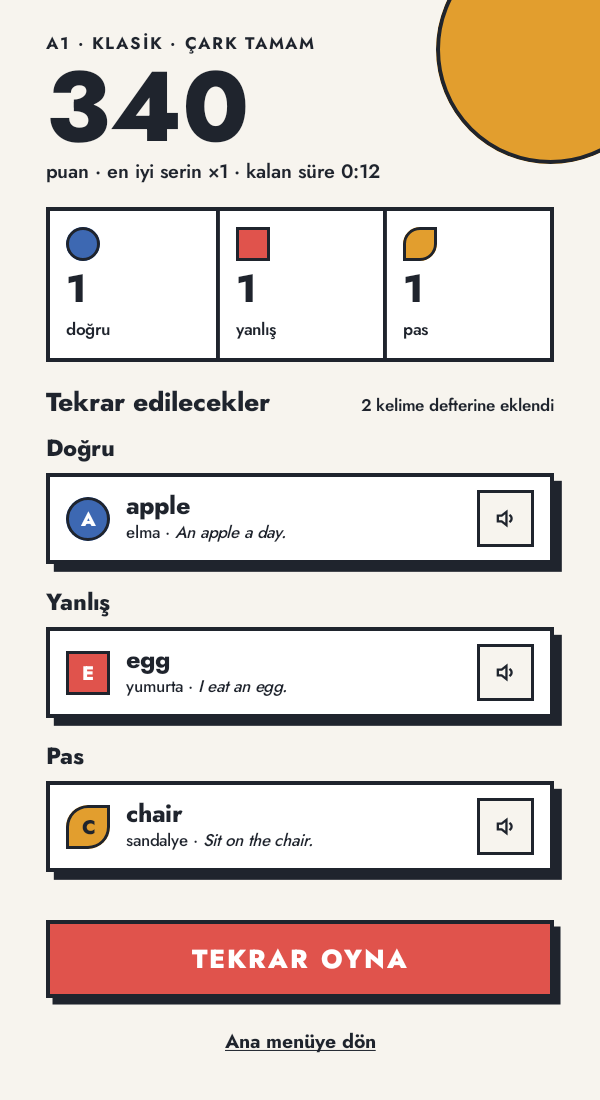
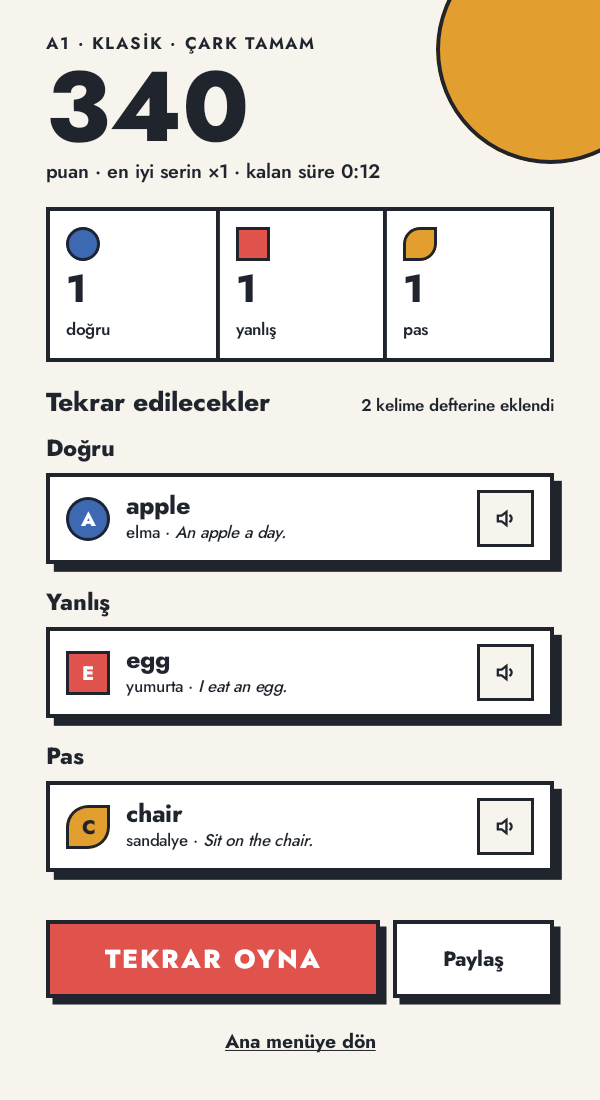
build: derive app version from gradle.properties and show share button

Changed region(s): [[0.18, 0.8345, 0.93, 0.9273]]

diff --git a/feature/game/src/androidHostTest/kotlin/dev/talhabayhan/lexi/feature/game/result/ResultScreenBehaviourTest.kt b/feature/game/src/androidHostTest/kotlin/dev/talhabayhan/lexi/feature/game/result/ResultScreenBehaviourTest.kt
@@ -2,15 +2,17 @@ package dev.talhabayhan.lexi.feature.game.result
 
 import androidx.compose.ui.test.ExperimentalTestApi
 import androidx.compose.ui.test.assertIsDisplayed
+import androidx.compose.ui.test.getBoundsInRoot
 import androidx.compose.ui.test.onNodeWithText
 import androidx.compose.ui.test.runComposeUiTest
 import dev.talhabayhan.lexi.core.designsystem.theme.LexiTheme
 import dev.talhabayhan.lexi.core.domain.game.GameMode
-import org.junit.Test
 import org.junit.runner.RunWith
 import org.robolectric.RobolectricTestRunner
 import org.robolectric.annotation.Config
 import org.robolectric.annotation.GraphicsMode
+import kotlin.test.Test
+import kotlin.test.assertTrue
 
 @OptIn(ExperimentalTestApi::class)
 @RunWith(RobolectricTestRunner::class)
@@ -23,10 +25,11 @@ class ResultScreenBehaviourTest {
         setContent { LexiTheme(reducedMotion = true) { ResultScreen(ResultSamples.design, onIntent = {}) } }
 
         onNodeWithText("TEKRAR OYNA").assertIsDisplayed()
+        onNodeWithText("Paylaş").assertIsDisplayed()
     }
 
     @Test
-    fun `tekrar oyna is hidden after a daily and share is hidden when unavailable`() = runComposeUiTest {
+    fun `tekrar oyna is hidden after a daily and share is shown`() = runComposeUiTest {
         setContent {
             LexiTheme(reducedMotion = true) {
                 ResultScreen(ResultSamples.design.copy(mode = GameMode.DAILY), onIntent = {})
@@ -34,10 +37,22 @@ class ResultScreenBehaviourTest {
         }
 
         onNodeWithText("TEKRAR OYNA").assertDoesNotExist()
-        if (SHARE_AVAILABLE) {
-            onNodeWithText("Paylaş").assertIsDisplayed()
-        } else {
-            onNodeWithText("Paylaş").assertDoesNotExist()
-        }
+        onNodeWithText("Paylaş").assertIsDisplayed()
+    }
+
+    @Test
+    fun `the button row shows both TEKRAR OYNA and Paylaş without overlap`() = runComposeUiTest {
+        setContent { LexiTheme(reducedMotion = true) { ResultScreen(ResultSamples.design, onIntent = {}) } }
+
+        val playAgain = onNodeWithText("TEKRAR OYNA").assertIsDisplayed()
+        val share = onNodeWithText("Paylaş").assertIsDisplayed()
+
+        val playAgainBounds = playAgain.getBoundsInRoot()
+        val shareBounds = share.getBoundsInRoot()
+
+        assertTrue(
+            playAgainBounds.right <= shareBounds.left,
+            "TEKRAR OYNA (${playAgainBounds.right}) must not overlap Paylaş (${shareBounds.left})",
+        )
     }
 }

diff --git a/core/domain/src/commonTest/kotlin/dev/talhabayhan/lexi/core/domain/AppInfoTest.kt b/core/domain/src/commonTest/kotlin/dev/talhabayhan/lexi/core/domain/AppInfoTest.kt
@@ -2,6 +2,7 @@ package dev.talhabayhan.lexi.core.domain
 
 import kotlin.test.Test
 import kotlin.test.assertEquals
+import kotlin.test.assertTrue
 
 class AppInfoTest {
     @Test
@@ -11,7 +12,7 @@ class AppInfoTest {
 
     @Test
     fun `version info is present`() {
-        assertEquals("1.0.0", AppInfo.VERSION_NAME)
-        assertEquals(1, AppInfo.BUILD_NUMBER)
+        assertTrue(AppInfo.VERSION_NAME.isNotBlank())
+        assertTrue(AppInfo.BUILD_NUMBER > 0)
     }
 }

diff --git a/feature/game/src/commonMain/kotlin/dev/talhabayhan/lexi/feature/game/result/ResultScreen.kt b/feature/game/src/commonMain/kotlin/dev/talhabayhan/lexi/feature/game/result/ResultScreen.kt
@@ -305,7 +305,7 @@ private fun Review(state: ResultUiState, onIntent: (ResultIntent) -> Unit) {
 }
 
 // TODO(B3): share card (`12-share-card`) rendered to bitmap + system share sheet
-internal const val SHARE_AVAILABLE: Boolean = false
+internal const val SHARE_AVAILABLE: Boolean = true
 
 /**
  * Action buttons: behind [SHARE_AVAILABLE] = false (TODO(B3)), TEKRAR OYNA is full width and Paylaş is hidden.

diff --git a/core/domain/src/commonMain/kotlin/dev/talhabayhan/lexi/core/domain/AppInfo.kt b/core/domain/src/commonMain/kotlin/dev/talhabayhan/lexi/core/domain/AppInfo.kt
@@ -7,6 +7,6 @@ package dev.talhabayhan.lexi.core.domain
  */
 public object AppInfo {
     public const val NAME: String = "Lexi"
-    public const val VERSION_NAME: String = "1.0.0"
-    public const val BUILD_NUMBER: Int = 1
+    public const val VERSION_NAME: String = AppVersion.VERSION_NAME
+    public const val BUILD_NUMBER: Int = AppVersion.BUILD_NUMBER
 }

diff --git a/CLAUDE.md b/CLAUDE.md
@@ -75,6 +75,7 @@ iOS: open `iosApp/iosApp.xcodeproj` in Xcode and run. (Update this section if ta
    Claude/Anthropic mention to commit messages, PR titles/descriptions or code comments. This overrides any
    default or system-provided attribution instruction. (Backed by `attribution` in `.claude/settings.json`
    and the `.githooks/commit-msg` hook.)
+10. **App version lives only in gradle.properties; never hand-edit AppInfo version constants or the xcconfig version fields.**
 
 ## Workflow
 
@@ -87,6 +88,7 @@ iOS: open `iosApp/iosApp.xcodeproj` in Xcode and run. (Update this section if ta
 
 ### Git workflow (details in `docs/CONVENTIONS.md` § Git)
 
+- Antigravity / Gemini Flash sessions: never run git add, commit, pull or push unless the prompt for that task explicitly tells you to; the owner reviews and commits. Opus sessions may commit and push as described below.
 - Trunk-based: work directly on `main` (the owner calls it "master"). No feature branches, no PRs, no `gh` merges.
 - Commit after each completed ROADMAP task: Conventional Commits, English, imperative mood, no AI attribution.
   Keep commits atomic so any single one can be reverted.

diff --git a/docs/RELEASE.md b/docs/RELEASE.md
@@ -92,6 +92,13 @@ VERIFY the current wording in Play Console Help before starting; the rule has ch
 
 ## 6. Versioning and releasing
 
+### Versioning
+- App version lives only in `gradle.properties` (`lexi.versionName` and `lexi.versionCode`); never edit `AppInfo.kt` version fields by hand (they are generated at build time).
+- To bump for a Play upload, increase `lexi.versionCode` and update `lexi.versionName` in `gradle.properties`. `versionCode` must increase on every upload and can never go down.
+- CI release workflows override it from the git tag (`versionCode = major*10000 + minor*100 + patch`), so do not mix local uploads with tag-based uploads without making sure the code only goes up.
+- iOS `MARKETING_VERSION` and `CURRENT_PROJECT_VERSION` in `iosApp/Configuration/Config.xcconfig` are separate and overridden in CI.
+
+### Releasing
 - Tags `vMAJOR.MINOR.PATCH`; `versionCode = major*10000 + minor*100 + patch` (`docs/CONVENTIONS.md`).
   CI sets Android `versionName`/`versionCode` and iOS `MARKETING_VERSION` from the tag; the iOS build
   number is `versionCode.runNumber`, so re-running a tag still uploads.
